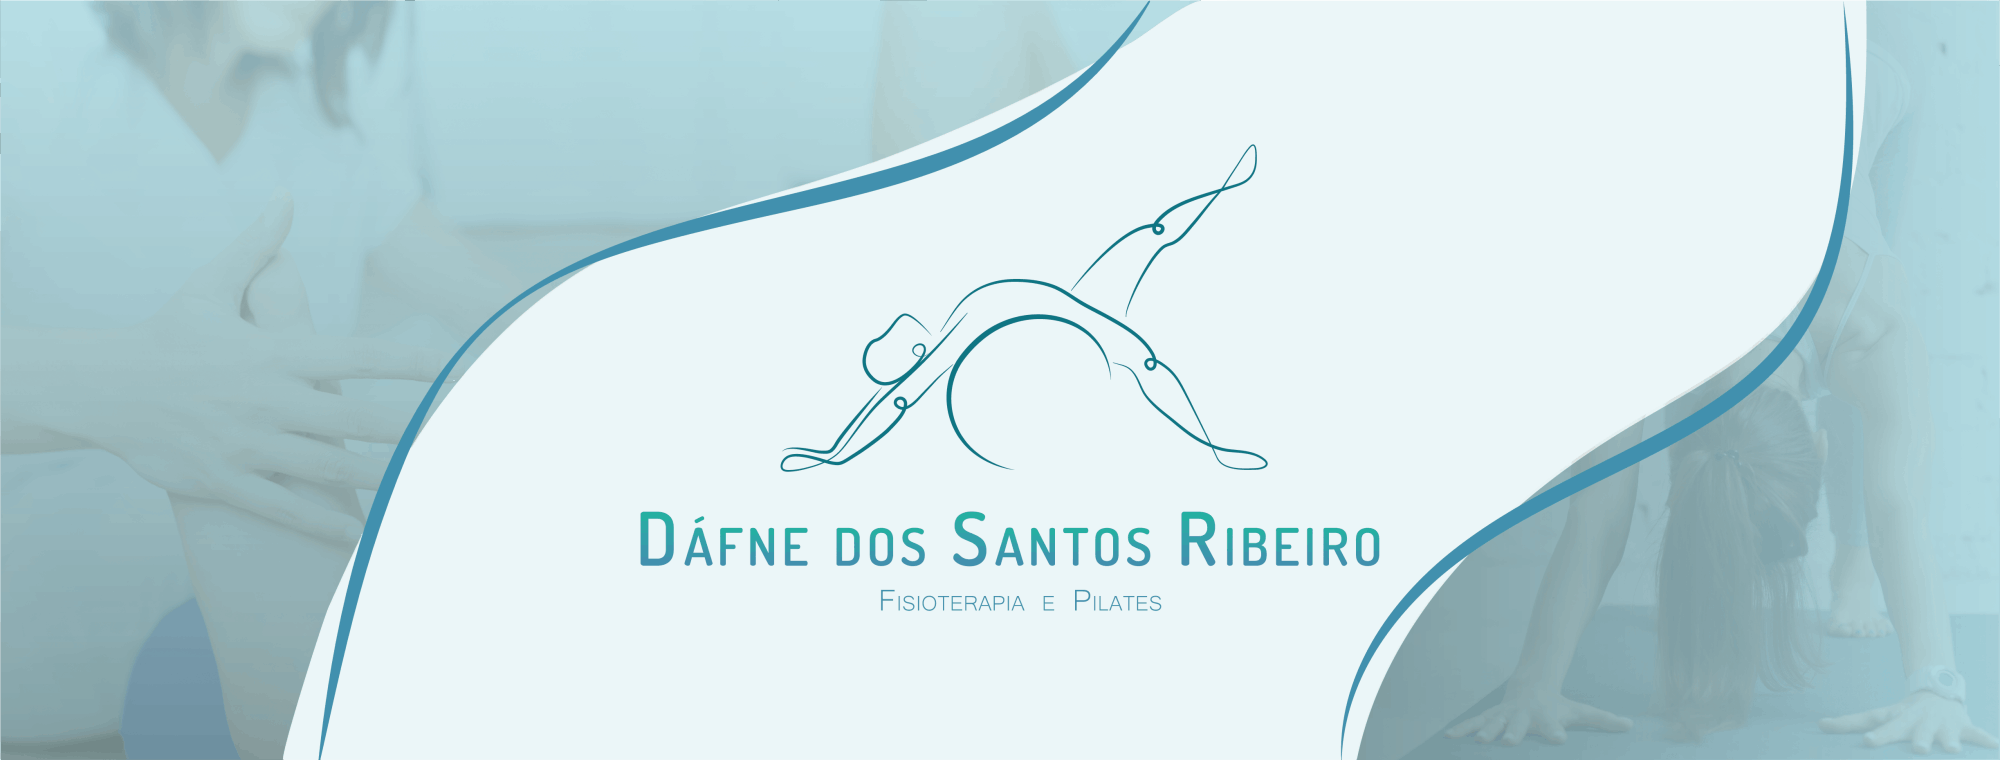
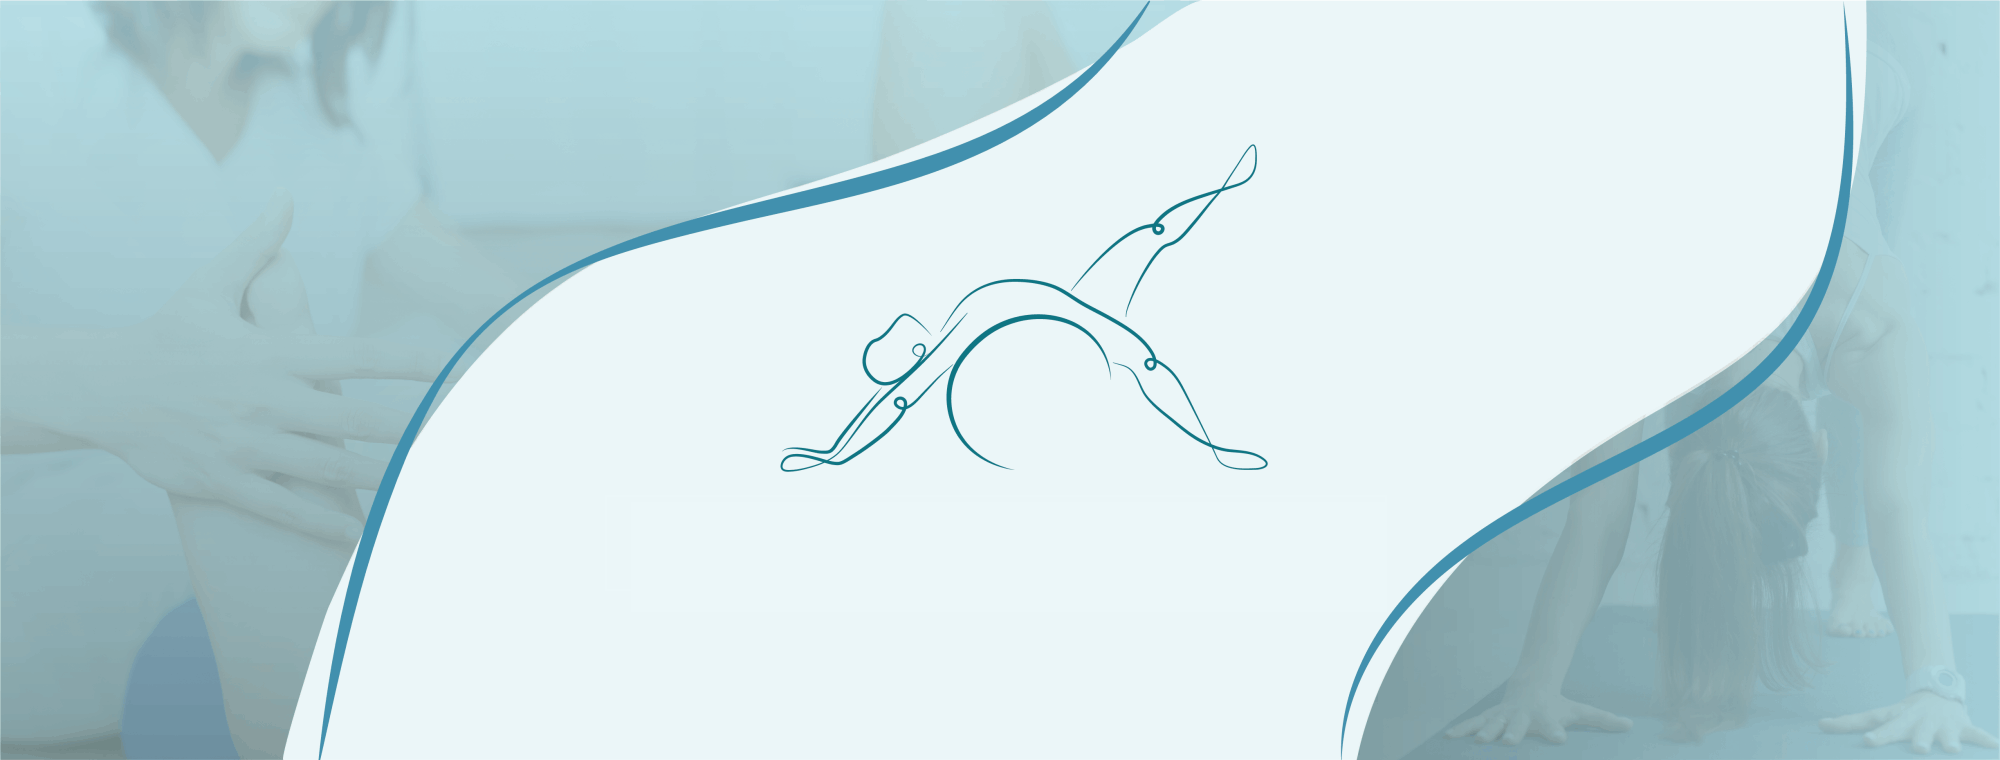
create github pages

Changed region(s): [[0.31, 0.6658, 0.713, 0.7566], [0.434, 0.7868, 0.589, 0.8171]]

diff --git a/index.html b/index.html
@@ -24,7 +24,7 @@
   
 </head>
 <body>
-  <link rel="stylesheet" href="style.less" class="cid-rh1wo5ijgr" id="menu1-r" data-rv-view="42"><section class="menu cid-rh1wo5ijgr" once="menu" id="menu1-r">
+  <link rel="stylesheet" href="style.less" class="cid-rh1wo5ijgr" id="menu1-r" data-rv-view="56"><section class="menu cid-rh1wo5ijgr" once="menu" id="menu1-r">
 
     
 
@@ -60,7 +60,7 @@
     </nav>
 </section>
 
-<section class="engine"><a href="https://mobirise.info/a">online web builder</a></section><section class="cid-qTkA127IK8 mbr-fullscreen mbr-parallax-background" id="header2-1">
+<section class="engine"><a href="https://mobirise.info/r">bootstrap templates</a></section><section class="cid-qTkA127IK8 mbr-fullscreen mbr-parallax-background" id="header2-1">
 
     
 
@@ -69,8 +69,8 @@
     <div class="container align-center">
         <div class="row justify-content-md-center">
             <div class="mbr-white col-md-10">
-                <h1 class="mbr-section-title mbr-bold pb-3 mbr-fonts-style display-1"></h1>
-                <h3 class="mbr-section-subtitle align-center mbr-light pb-3 mbr-fonts-style display-2"></h3>
+                <h1 class="mbr-section-title mbr-bold pb-3 mbr-fonts-style display-1">Dáfne dos Santos Ribeiro</h1>
+                <h3 class="mbr-section-subtitle align-center mbr-light pb-3 mbr-fonts-style display-2">Fisioterapia e Pilates</h3>
                 <p class="mbr-text pb-3 mbr-fonts-style display-5">Formada em Fisioterapia pela Universidade de Passo Fundo em 2018/2, possui vivência na área hospitalar (Unidades de internação), intensivismo, neurologia, ortopedia e traumatologia, atenção básica (UBS), dermatofuncional e formação complementar em pilates completo. Durante a graduação, atuação em grupo de pesquisa na área de geriatria e reumatologia. Integrou o projeto de extensão em educação inclusiva equoterapia e atividades aquáticas para pessoas com transtorno e espectro autista. <a href="http://buscatextual.cnpq.br/buscatextual/visualizacv.do?metodo=apresentar&id=K8155304D9" target="_blank">Lattes</a>.<br><br></p>
                 
             </div>
@@ -154,7 +154,7 @@
                 </div>
                 <div data-form-type="formoid">
                     <div data-form-alert="" hidden="">Mensagem enviada!</div>
[2 lines of base64/hex data omitted]
                         <div class="row">
                             <div class="col-md-6 multi-horizontal" data-for="name">
                                 <input type="text" class="form-control input" name="name" data-form-field="Name" placeholder="Nome" required="" id="name-form4-k">
